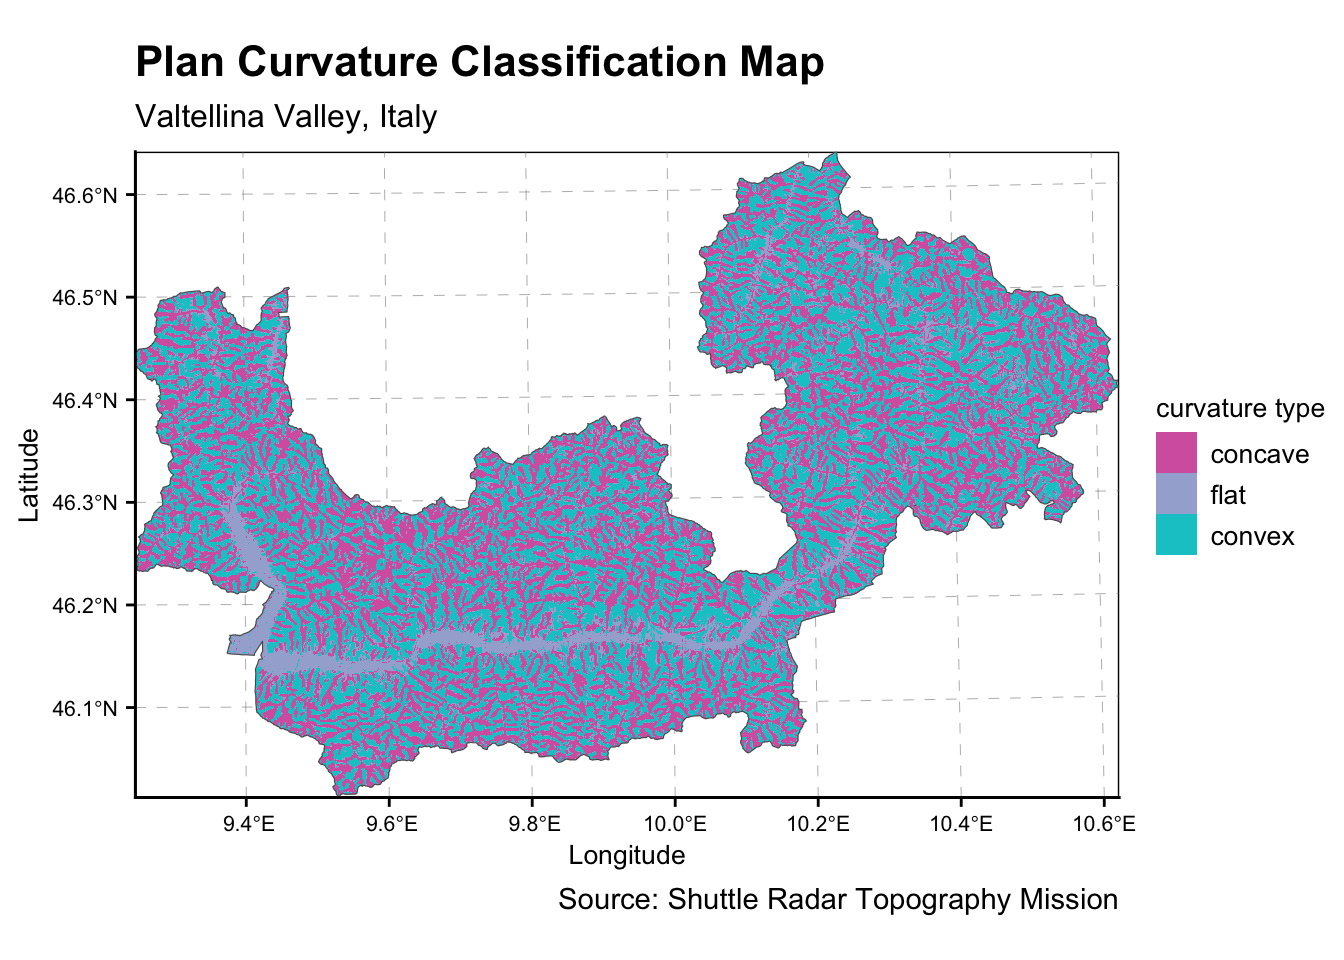
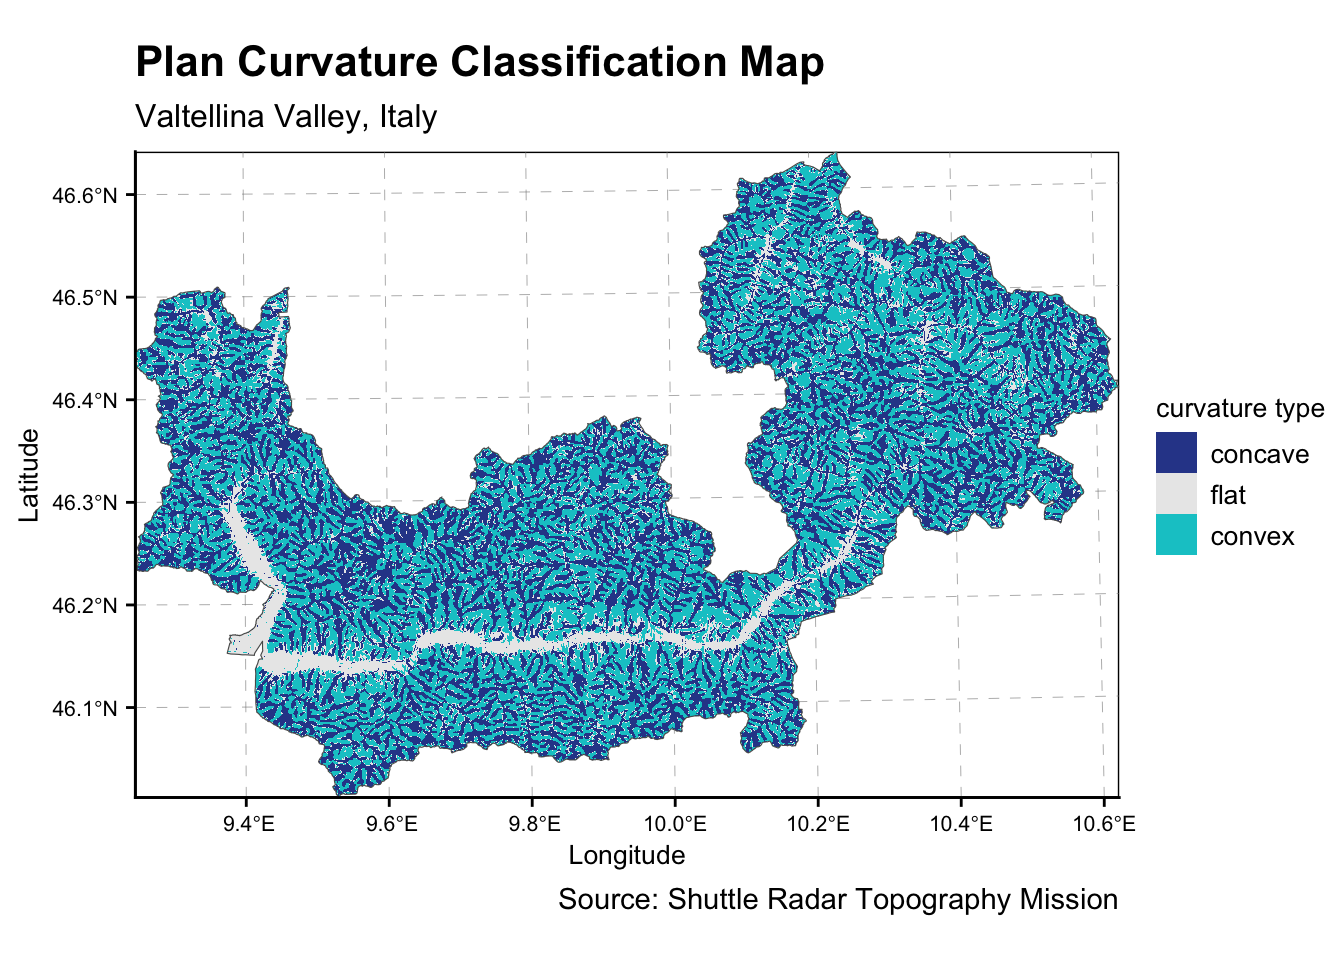
changed visualisations for curvature maps

Changed region(s): [[0.0938, 0.1562, 0.8438, 0.8438], [0.8438, 0.4375, 0.9062, 0.5312]]

diff --git a/_site/project.html b/_site/project.html
@@ -437,13 +437,13 @@ pre > code.sourceCode > span > a:first-child::before { text-decoration: underlin
 <span id="cb12-8"><a href="#cb12-8" aria-hidden="true" tabindex="-1"></a>profile_classifed_df <span class="ot">&lt;-</span> <span class="fu">as.data.frame</span>(profile_classifed,<span class="at">xy=</span><span class="cn">TRUE</span>)<span class="sc">%&gt;%</span><span class="fu">drop_na</span>()</span>
 <span id="cb12-9"><a href="#cb12-9" aria-hidden="true" tabindex="-1"></a>profile_codes <span class="ot">&lt;-</span> <span class="fu">unique</span>(profile_classifed_df[<span class="st">"profile_curvature_cat"</span>])</span>
 <span id="cb12-10"><a href="#cb12-10" aria-hidden="true" tabindex="-1"></a>profile_names <span class="ot">&lt;-</span><span class="fu">c</span>(<span class="st">"convex"</span>, <span class="st">"flat"</span>, <span class="st">"concave"</span>)</span>
-<span id="cb12-11"><a href="#cb12-11" aria-hidden="true" tabindex="-1"></a>profile_colors <span class="ot">&lt;-</span><span class="fu">c</span>(<span class="st">"#4884c1"</span>,<span class="st">"#7f6a8a"</span>,<span class="st">"#ae3a4e"</span>)</span>
+<span id="cb12-11"><a href="#cb12-11" aria-hidden="true" tabindex="-1"></a>profile_colors <span class="ot">&lt;-</span><span class="fu">c</span>(<span class="st">"#2f4798"</span>,<span class="st">"#e9e9e9"</span>,<span class="st">"#00c8cd"</span>)</span>
 <span id="cb12-12"><a href="#cb12-12" aria-hidden="true" tabindex="-1"></a></span>
 <span id="cb12-13"><a href="#cb12-13" aria-hidden="true" tabindex="-1"></a>plan_classifed <span class="ot">&lt;-</span> <span class="fu">reclassify</span>(plan_c,reclass_m)</span>
 <span id="cb12-14"><a href="#cb12-14" aria-hidden="true" tabindex="-1"></a>plan_classifed_df <span class="ot">&lt;-</span> <span class="fu">as.data.frame</span>(plan_classifed,<span class="at">xy=</span><span class="cn">TRUE</span>)<span class="sc">%&gt;%</span><span class="fu">drop_na</span>()</span>
 <span id="cb12-15"><a href="#cb12-15" aria-hidden="true" tabindex="-1"></a>plan_codes <span class="ot">&lt;-</span> <span class="fu">unique</span>(plan_classifed_df[<span class="st">"plan_curvature_cat"</span>])</span>
 <span id="cb12-16"><a href="#cb12-16" aria-hidden="true" tabindex="-1"></a>plan_names <span class="ot">&lt;-</span><span class="fu">c</span>(<span class="st">"concave"</span>, <span class="st">"flat"</span>, <span class="st">"convex"</span>)</span>
-<span id="cb12-17"><a href="#cb12-17" aria-hidden="true" tabindex="-1"></a>plan_colors <span class="ot">&lt;-</span><span class="fu">c</span>(<span class="st">"#d665b0"</span>,<span class="st">"#a4afd5"</span>,<span class="st">"#00c8cd"</span>)</span>
+<span id="cb12-17"><a href="#cb12-17" aria-hidden="true" tabindex="-1"></a>plan_colors <span class="ot">&lt;-</span><span class="fu">c</span>(<span class="st">"#2f4798"</span>,<span class="st">"#e9e9e9"</span>,<span class="st">"#00c8cd"</span>)</span>
 <span id="cb12-18"><a href="#cb12-18" aria-hidden="true" tabindex="-1"></a></span>
 <span id="cb12-19"><a href="#cb12-19" aria-hidden="true" tabindex="-1"></a><span class="fu">ggplot</span>(<span class="at">data=</span>profile_classifed_df)<span class="sc">+</span></span>
 <span id="cb12-20"><a href="#cb12-20" aria-hidden="true" tabindex="-1"></a>  <span class="fu">geom_raster</span>(<span class="fu">aes</span>(<span class="at">x=</span>x,<span class="at">y=</span>y,<span class="at">fill=</span><span class="fu">as.character</span>(profile_curvature_cat)))<span class="sc">+</span></span>
